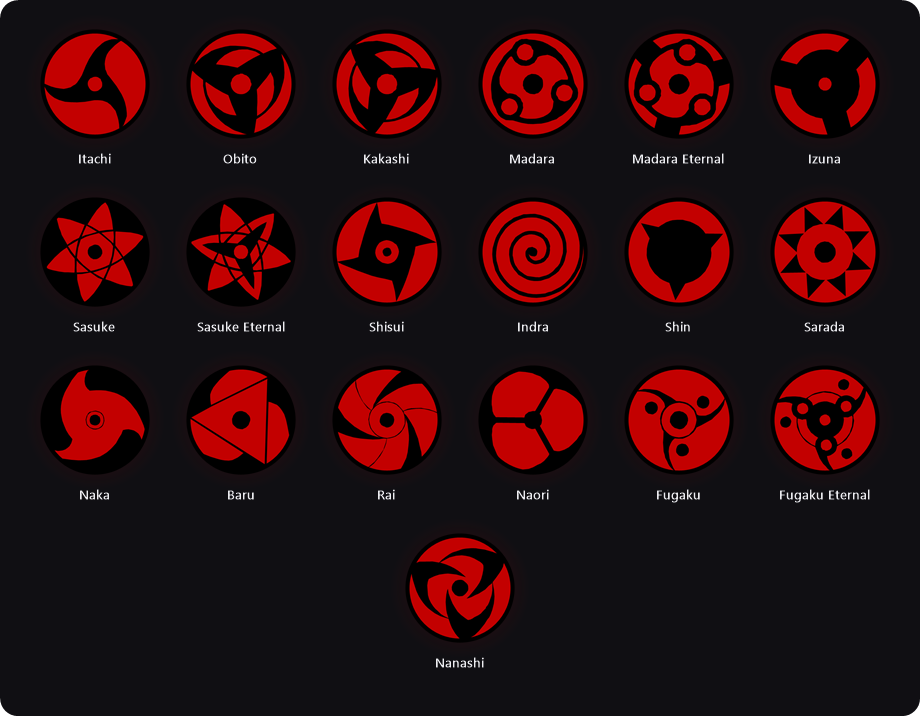
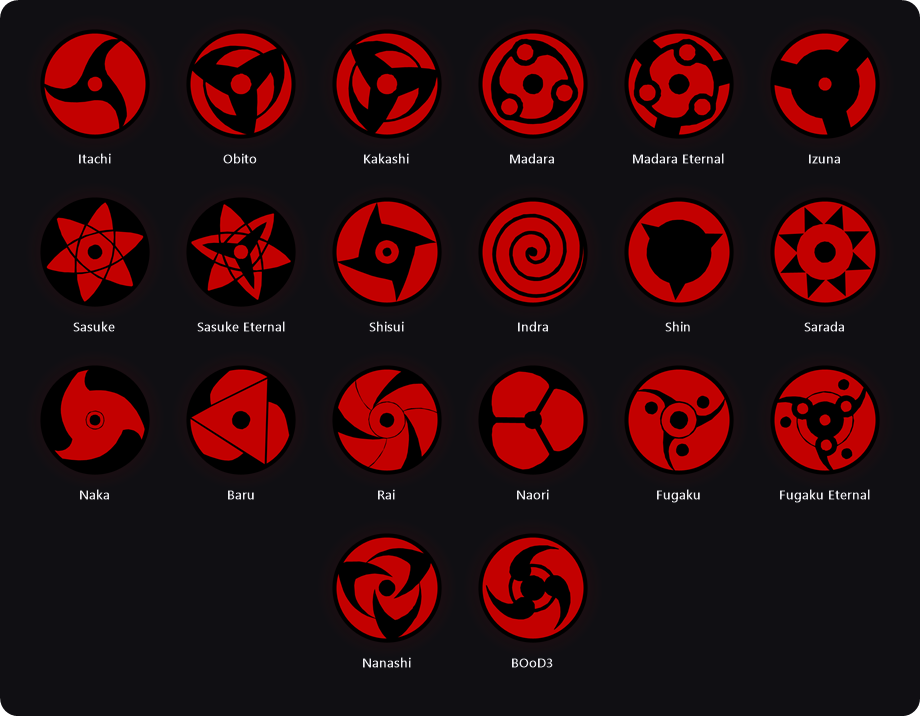
BOoD3: the old Classic Fugaku art as its own eye (Classic and V1)

diff --git a/README.md b/README.md
@@ -136,10 +136,10 @@ for a one-line readout such as `Itachi - CPU 42%`.
 
 ## <img src="docs/stage-4.png" width="26" align="top"> The eyes
 
-*Nineteen eyes, every one drawn in code. Each spins and grows out of nothing.*
+*Twenty eyes, every one drawn in code. Each spins and grows out of nothing.*
 
 <p align="center">
-  <img src="docs/eyes.png" width="900" alt="The 19 Classic eyes at full Mangekyou">
+  <img src="docs/eyes.png" width="900" alt="The 20 Classic eyes at full Mangekyou">
 </p>
 
 **Classic** is built in. **V1** draws eyes from artwork you supply in an `eyes\`
